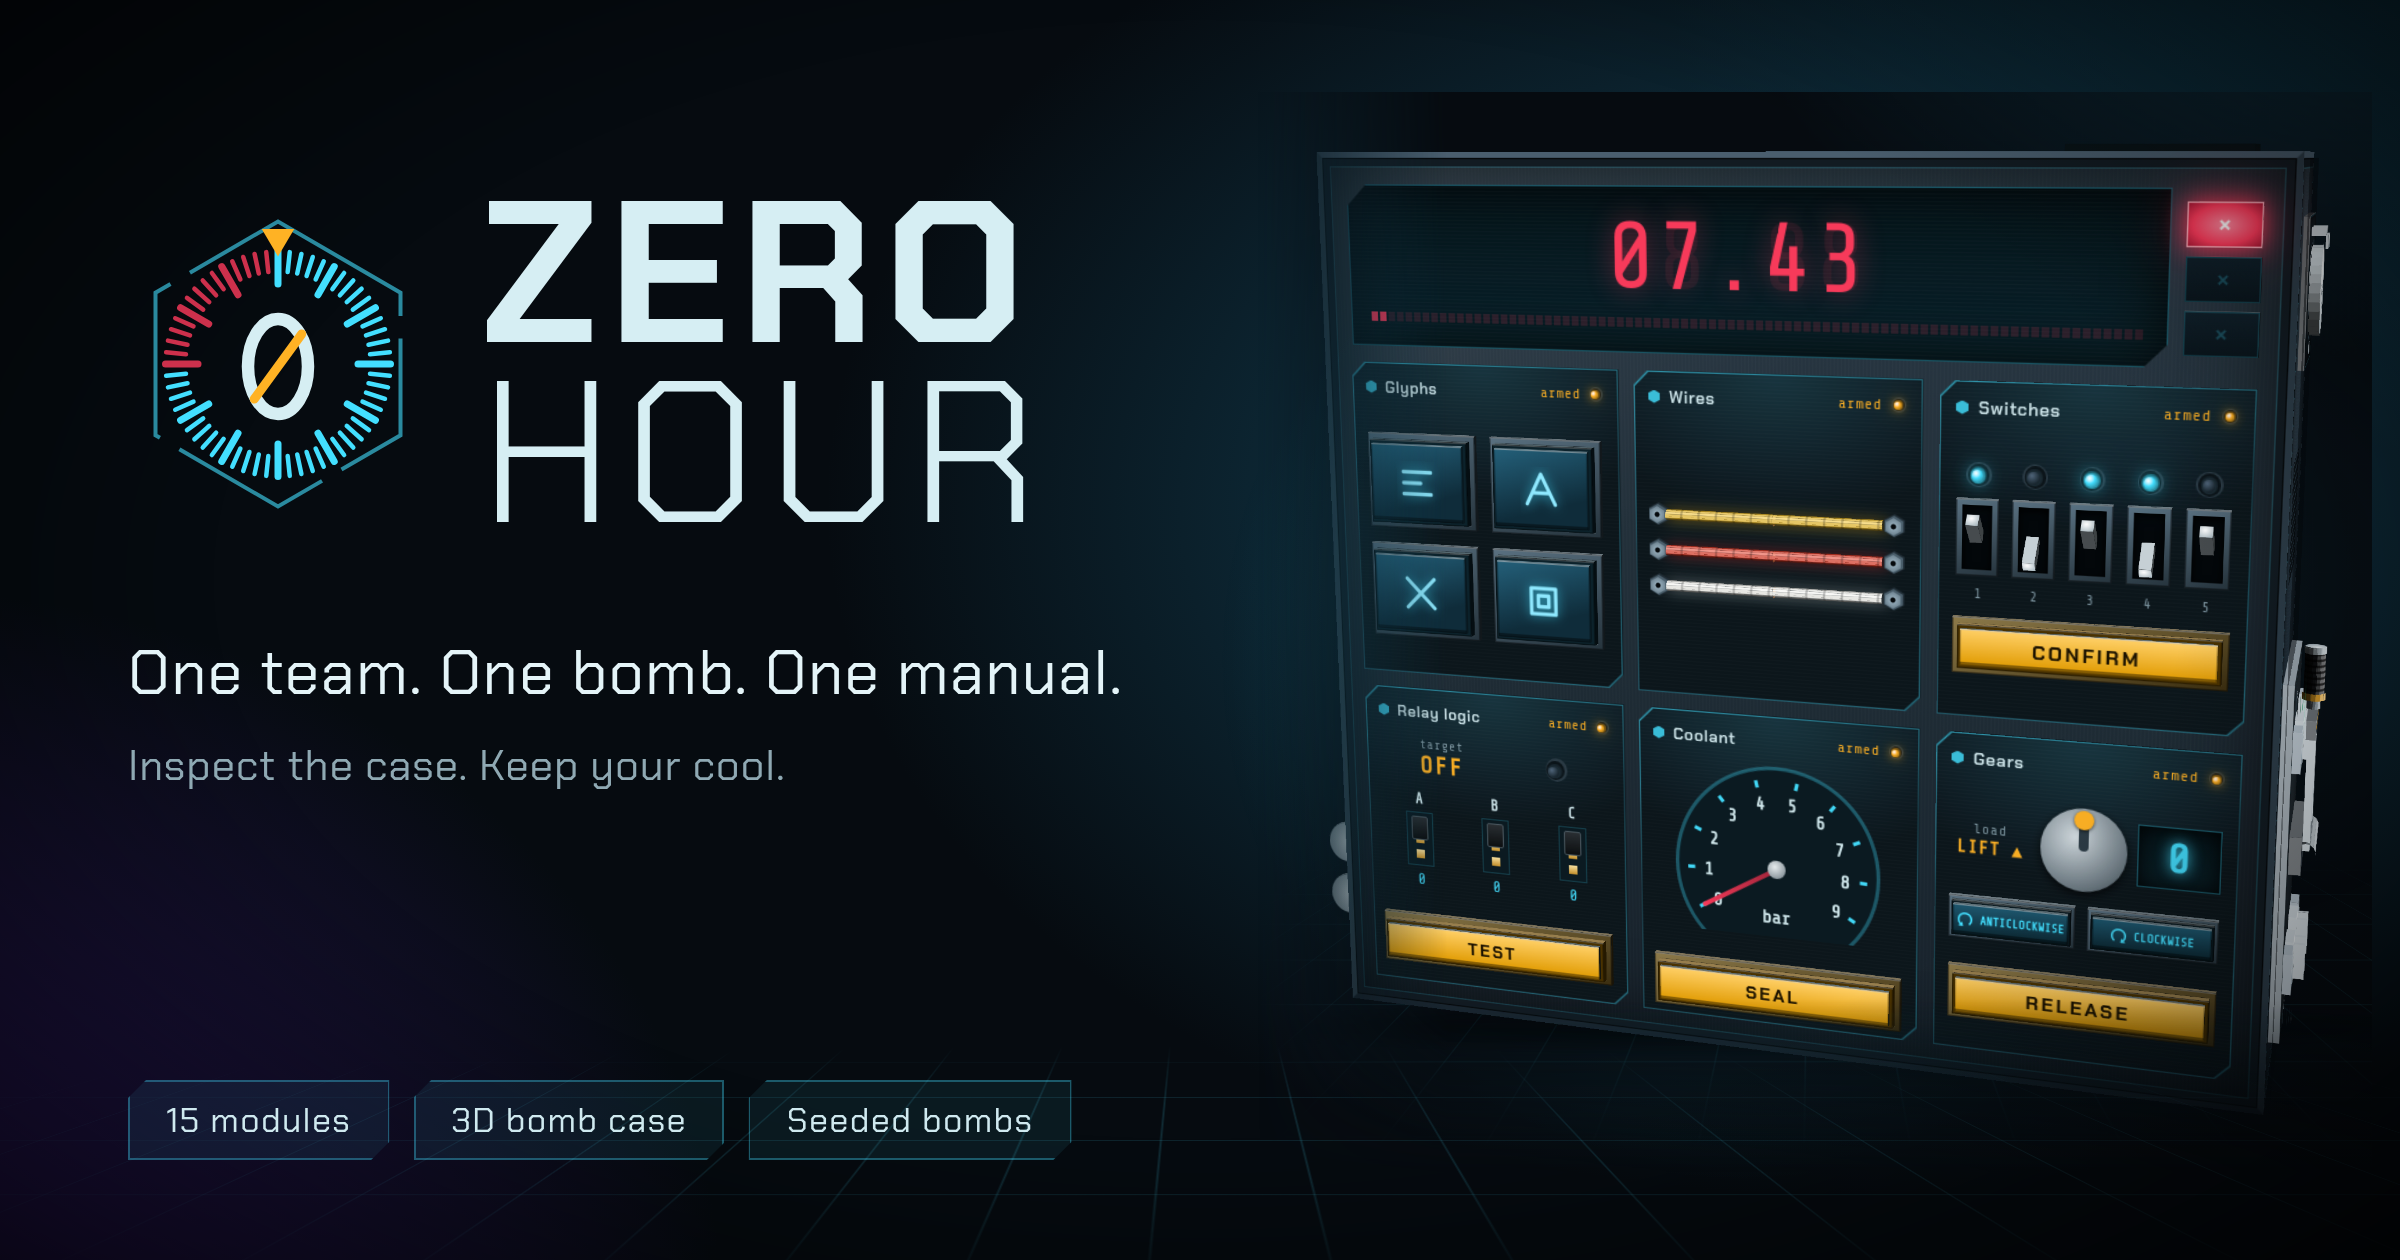
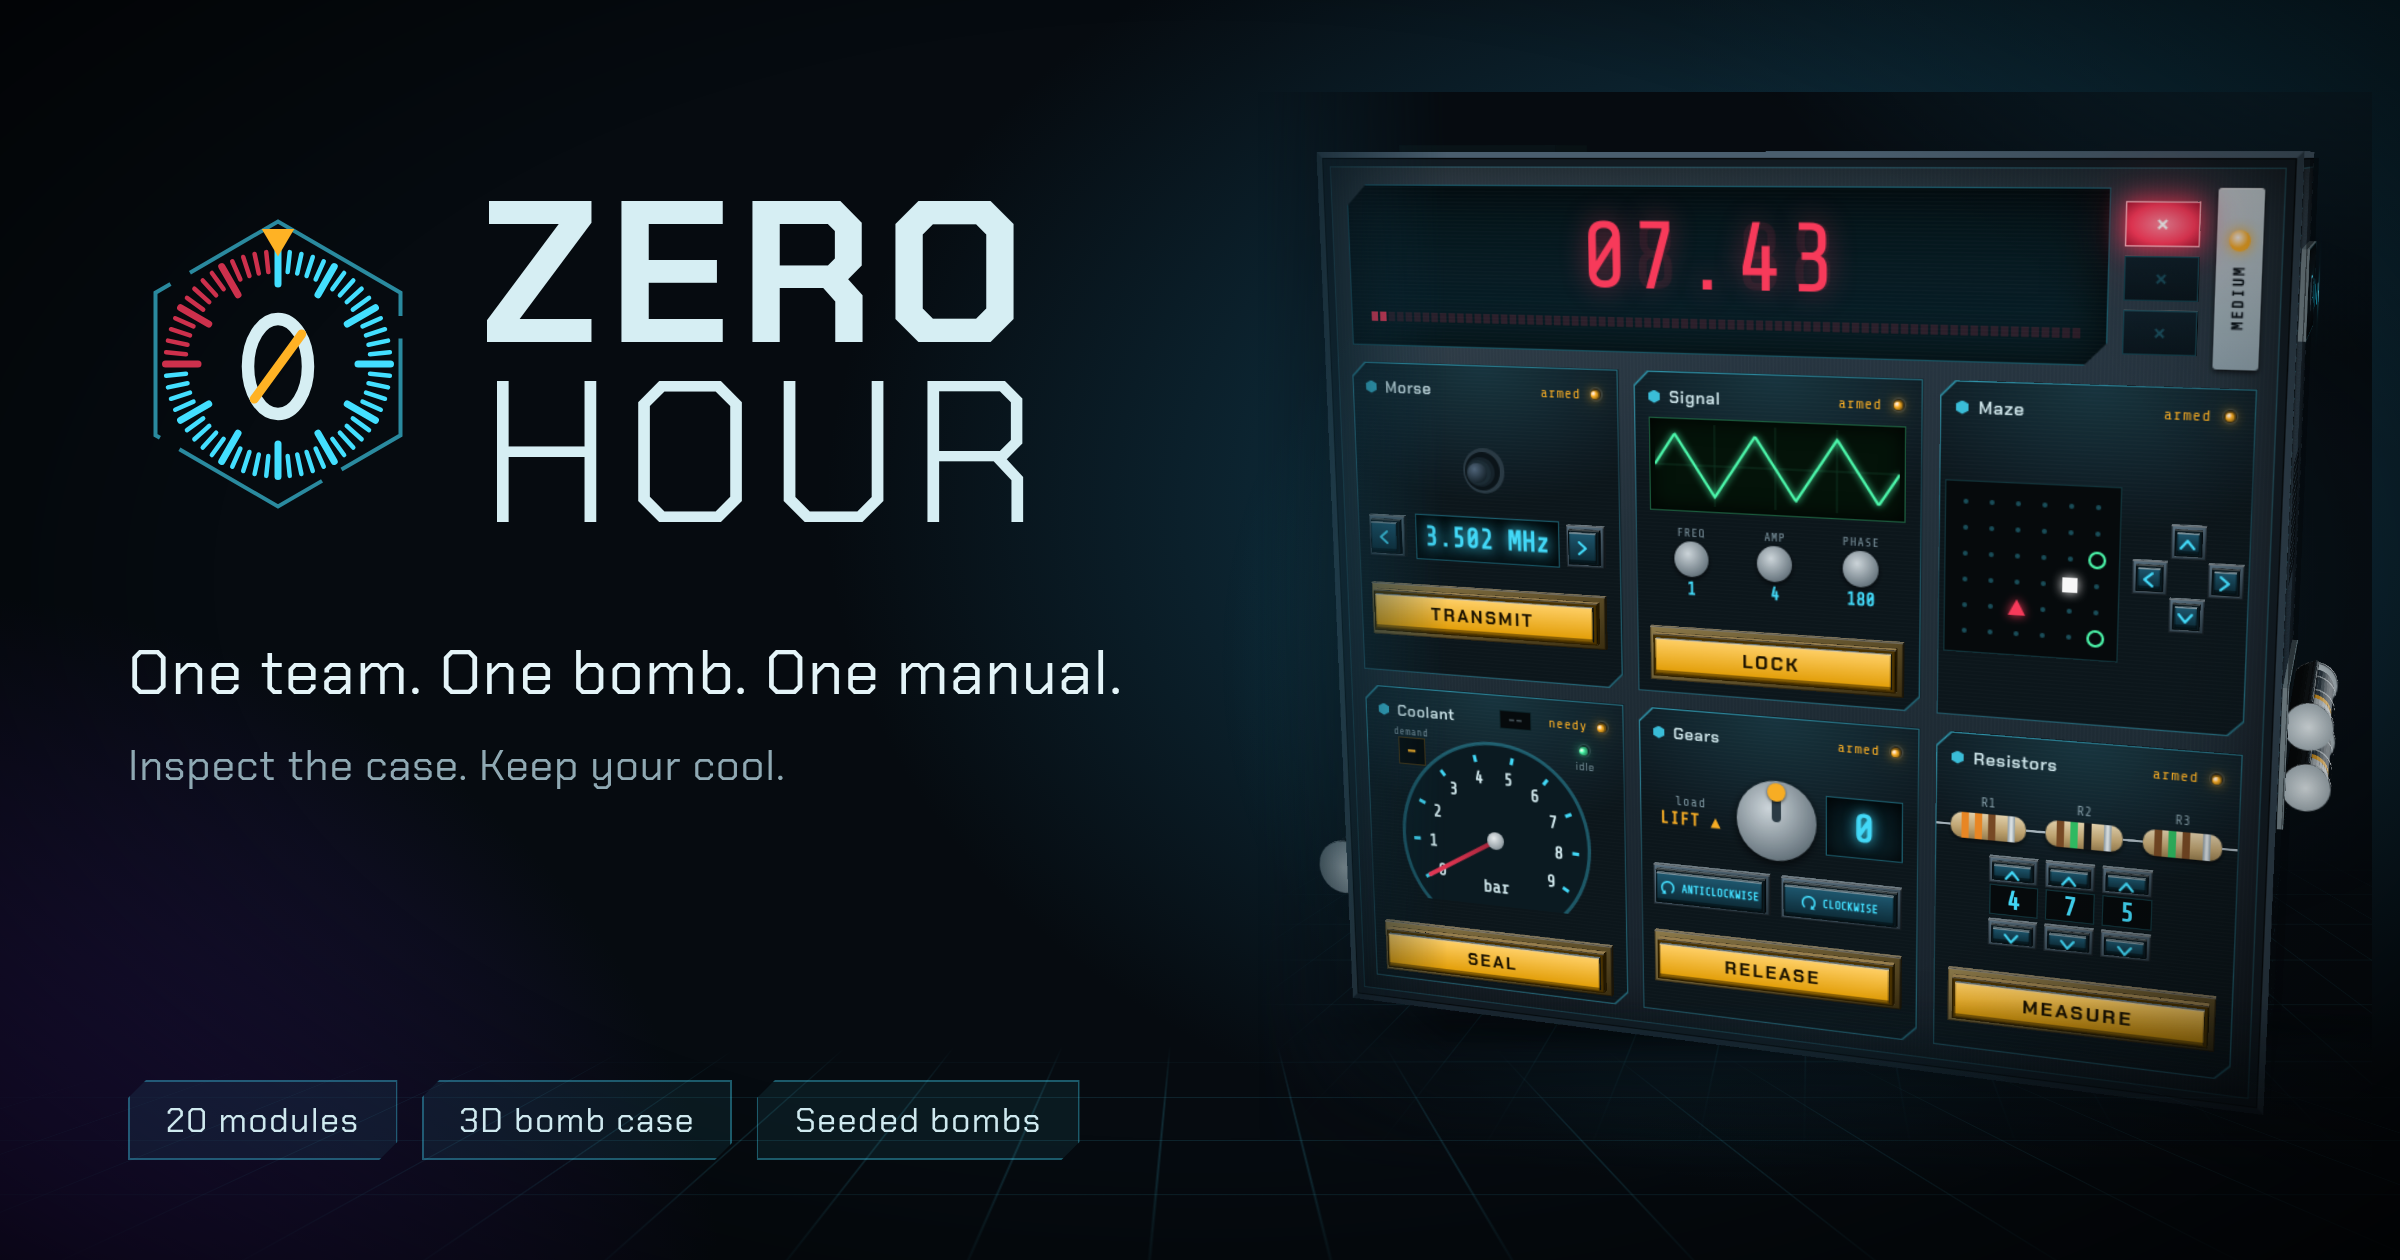
Refresh the social preview with the new modules and the case plate

diff --git a/README.md b/README.md
@@ -1,6 +1,6 @@
 # Zero Hour
 
-[![Zero Hour: a 3D bomb case with Glyphs, Wires, Switches, Relay logic, Coolant and Gears modules](site/zero-hour-preview.png)](https://zero-hour.sunken.dev/)
+[![Zero Hour: a 3D bomb case with Morse, Signal, Maze, Coolant, Gears and Resistors modules](site/zero-hour-preview.png)](https://zero-hour.sunken.dev/)
 
 **One team. One bomb. One manual.**
 
